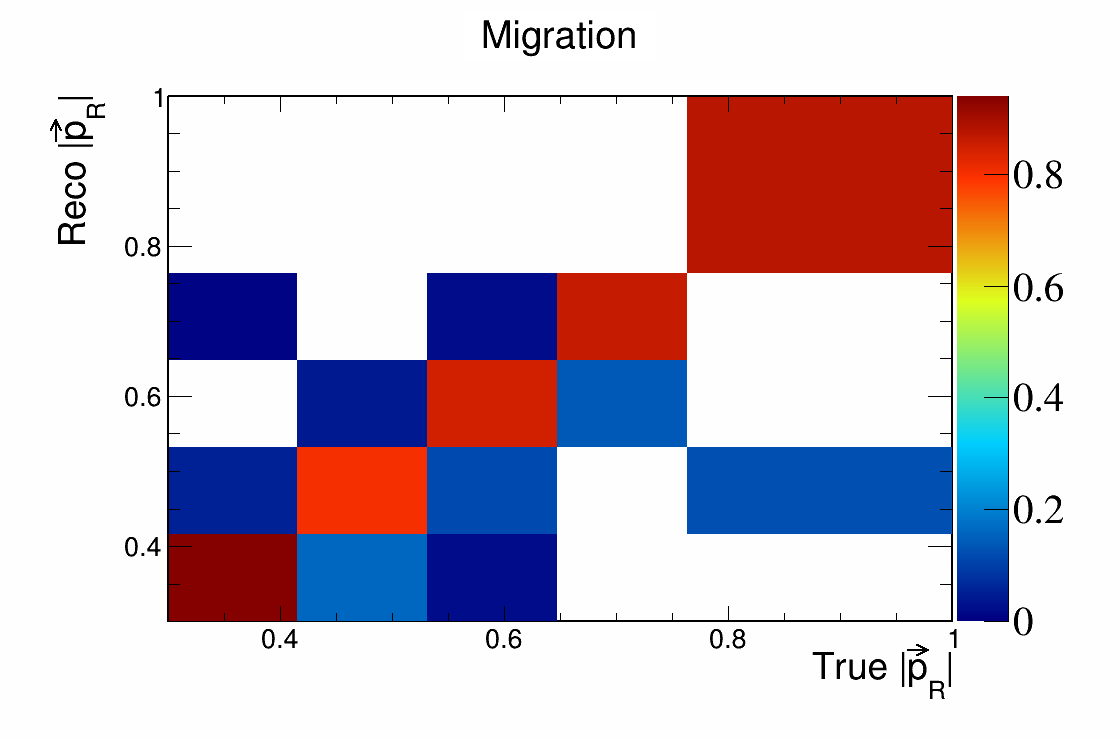
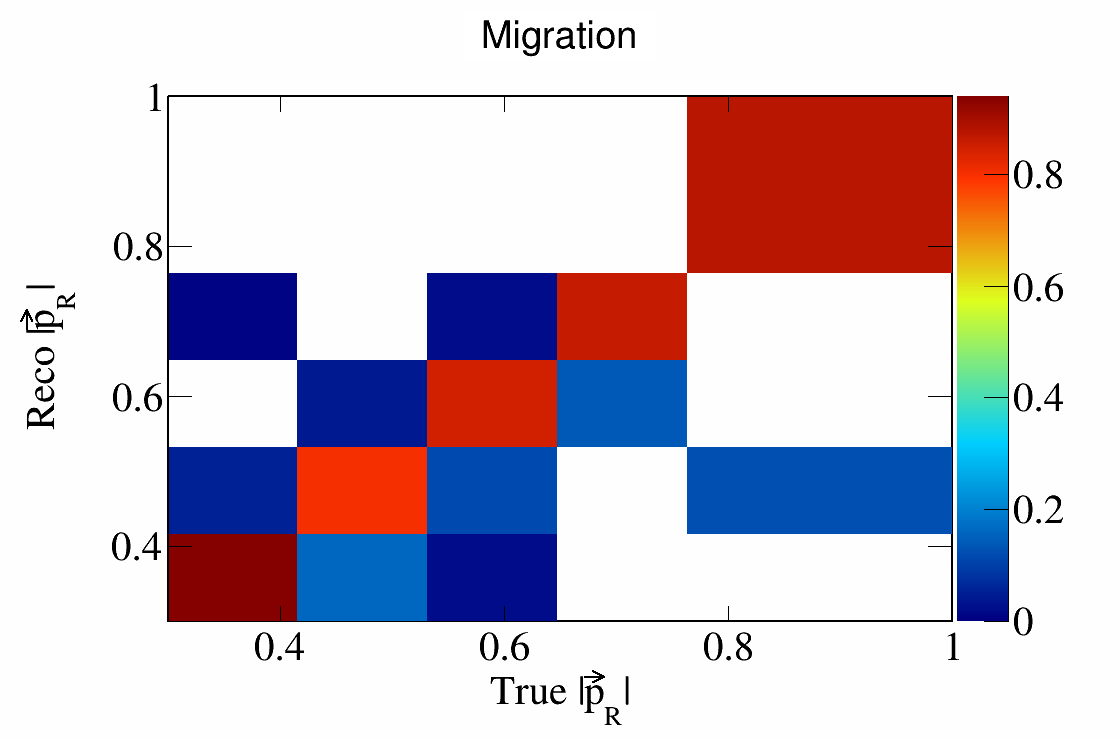
Better style for migration/response matrices

diff --git a/CAFAnaAnalysis/Scripts/SelectionMigrationMatrix.C b/CAFAnaAnalysis/Scripts/SelectionMigrationMatrix.C
@@ -167,7 +167,23 @@ void SelectionMigrationMatrix() {
         std::cout << "Total reco var events: " << RecoTotalEvents << std::endl;
 
         MigrationMatrix->GetXaxis()->SetTitle(("True " + VarLabels.at(i)).c_str());
+        MigrationMatrix->GetXaxis()->CenterTitle();
+        MigrationMatrix->GetXaxis()->SetTitleOffset(1.1);
+        MigrationMatrix->GetXaxis()->SetTitleFont(FontStyle);
+        MigrationMatrix->GetXaxis()->SetTitleSize(TextSize);
+        MigrationMatrix->GetXaxis()->SetLabelFont(FontStyle);
+        MigrationMatrix->GetXaxis()->SetLabelSize(TextSize);
+        MigrationMatrix->GetXaxis()->SetNdivisions(5);
+
         MigrationMatrix->GetYaxis()->SetTitle(("Reco " + VarLabels.at(i)).c_str());
+        MigrationMatrix->GetYaxis()->CenterTitle();
+        MigrationMatrix->GetYaxis()->SetTitleOffset(1.1);
+        MigrationMatrix->GetYaxis()->SetTitleFont(FontStyle);
+        MigrationMatrix->GetYaxis()->SetTitleSize(TextSize);
+        MigrationMatrix->GetYaxis()->SetLabelFont(FontStyle);
+        MigrationMatrix->GetYaxis()->SetLabelSize(TextSize);
+        MigrationMatrix->GetYaxis()->SetNdivisions(5);
+
         double MigrationMin = MigrationMatrix->GetMinimum();
         double MigrationMax = MigrationMatrix->GetMaximum();
         MigrationMatrix->GetZaxis()->SetRangeUser(MigrationMin,MigrationMax);
@@ -179,7 +195,23 @@ void SelectionMigrationMatrix() {
         MigrationMatrix->GetZaxis()->SetNdivisions(5);
 
         ResponseMatrix->GetXaxis()->SetTitle(("True " + VarLabels.at(i)).c_str());
+        ResponseMatrix->GetXaxis()->CenterTitle();
+        ResponseMatrix->GetXaxis()->SetTitleOffset(1.1);
+        ResponseMatrix->GetXaxis()->SetTitleFont(FontStyle);
+        ResponseMatrix->GetXaxis()->SetTitleSize(TextSize);
+        ResponseMatrix->GetXaxis()->SetLabelFont(FontStyle);
+        ResponseMatrix->GetXaxis()->SetLabelSize(TextSize);
+        ResponseMatrix->GetXaxis()->SetNdivisions(5);
+
         ResponseMatrix->GetYaxis()->SetTitle(("Reco " + VarLabels.at(i)).c_str());
+        ResponseMatrix->GetYaxis()->CenterTitle();
+        ResponseMatrix->GetYaxis()->SetTitleOffset(1.1);
+        ResponseMatrix->GetYaxis()->SetTitleFont(FontStyle);
+        ResponseMatrix->GetYaxis()->SetTitleSize(TextSize);
+        ResponseMatrix->GetYaxis()->SetLabelFont(FontStyle);
+        ResponseMatrix->GetYaxis()->SetLabelSize(TextSize);
+        ResponseMatrix->GetYaxis()->SetNdivisions(5);
+
         double ResponseMin = ResponseMatrix->GetMinimum();
         double ResponseMax = ResponseMatrix->GetMaximum();
         ResponseMatrix->GetZaxis()->SetRangeUser(ResponseMin,ResponseMax);
